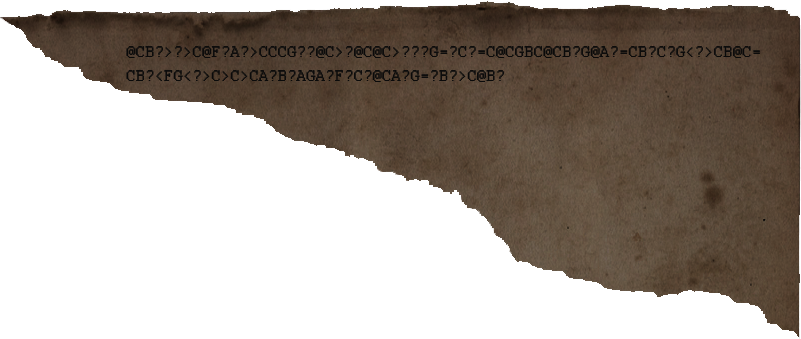
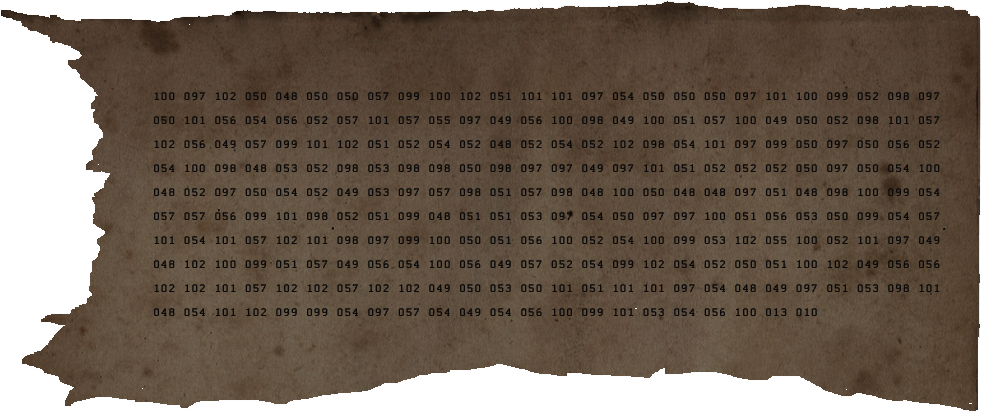
Refactoring

diff --git a/alreadysolved/cipher_04s/README.md b/alreadysolved/cipher_04s/README.md
@@ -1,10 +1,10 @@
 # Cipher 12
 
-## Alternative
-Funny Octal
+## Alternative Name
+The CAB@? One.
 
 ## Description
-This directory contains information on the Black Ops 3 Zombies Revelations Map cipher, Cipher 12.
+This directory contains information on solving the Black Ops 3 Zombies Map Cipher 12.
 
 ![alt text](https://github.com/redknight99/unsolved_blackops3_ciphers/blob/master/cipher_12/cipher12.png?raw=true)
 
